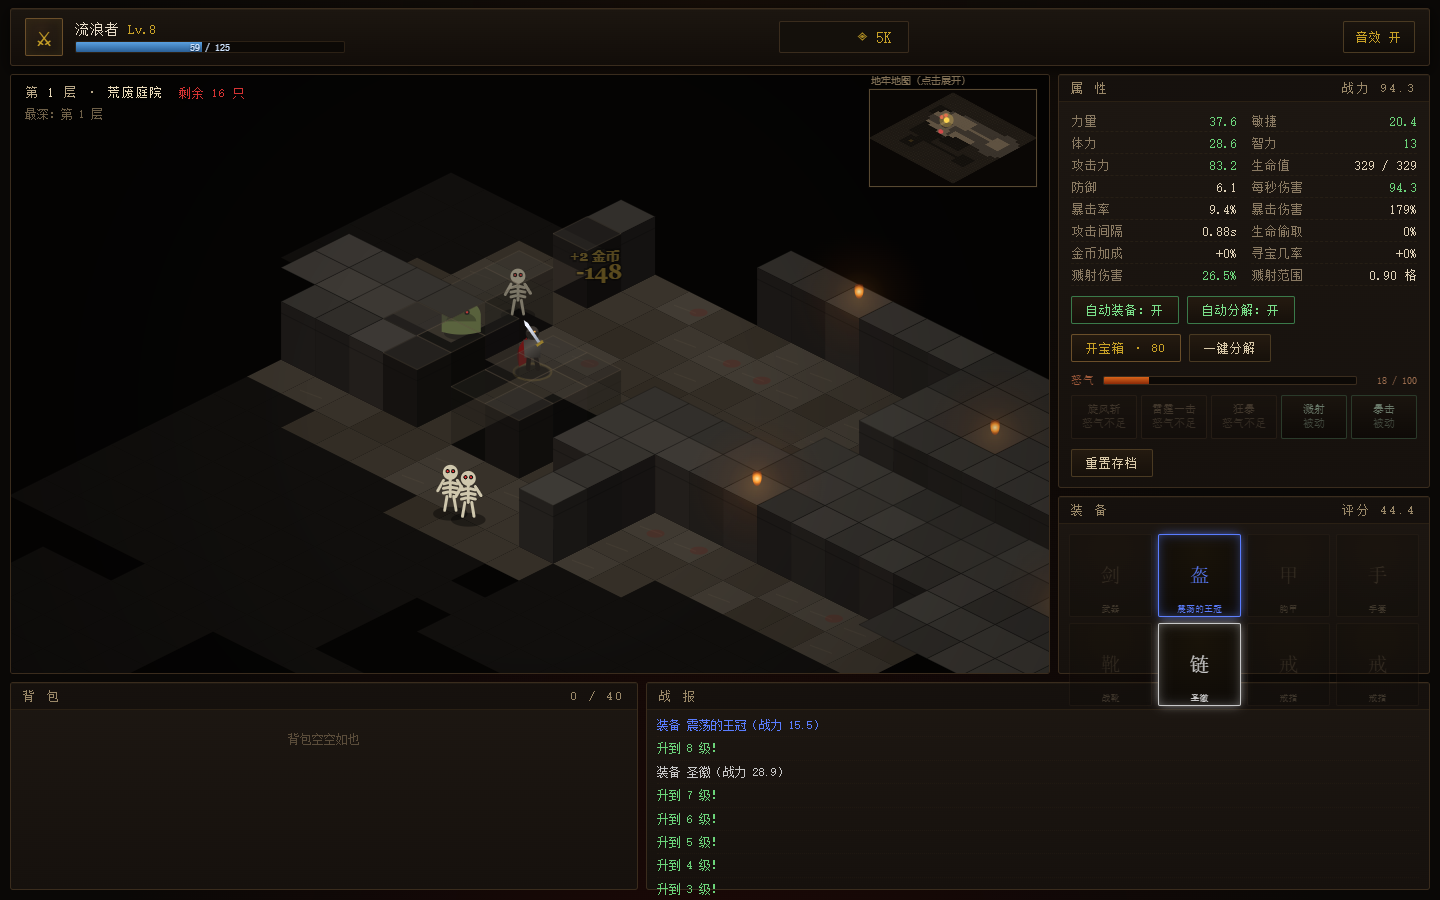
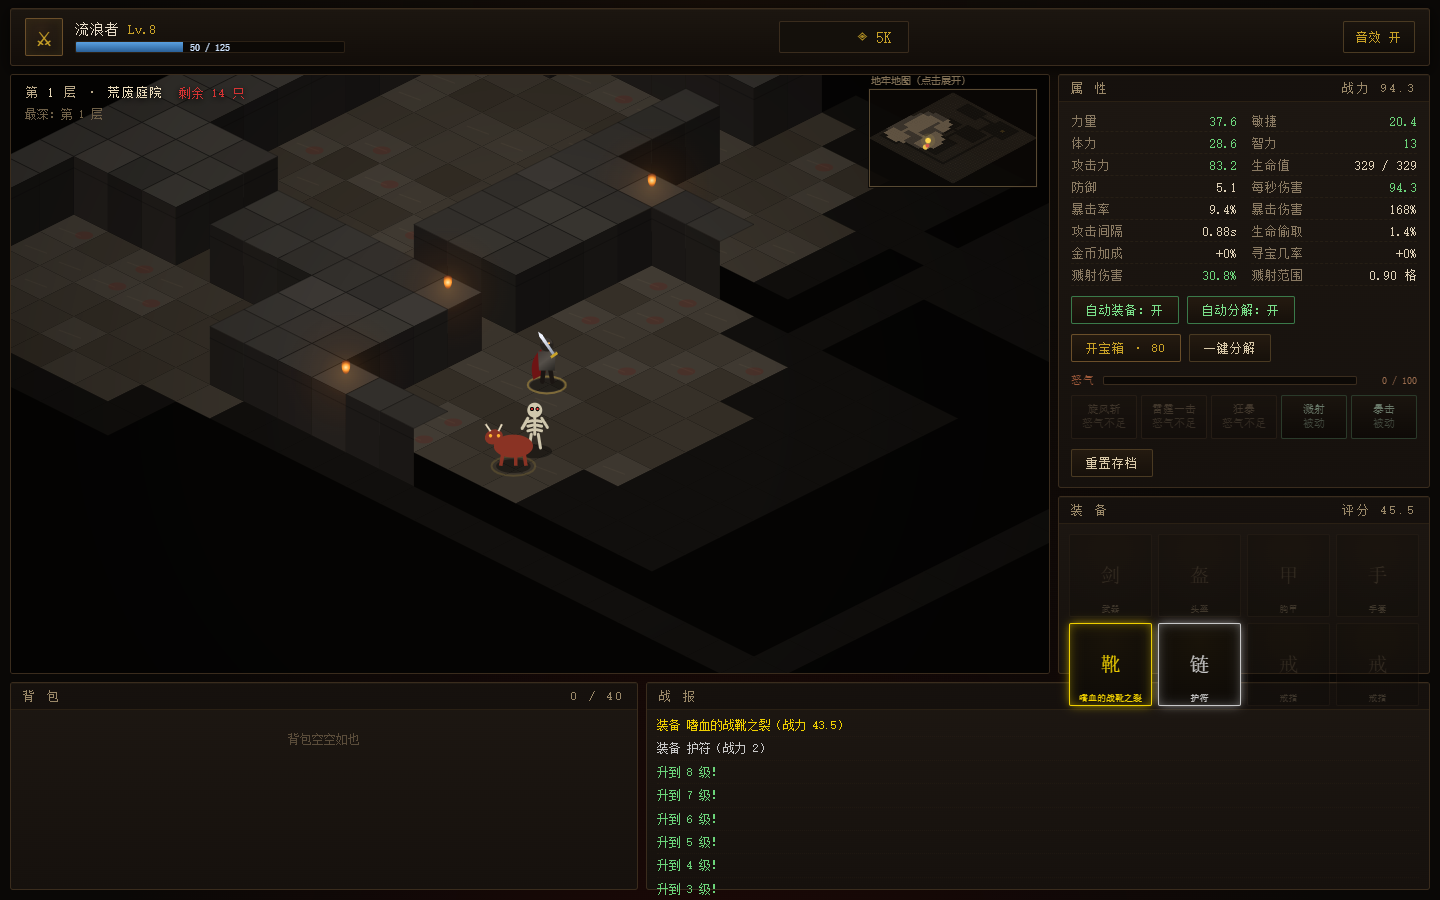
balance: 加强怪物强度
- 怪物血量基数 27.5 → 105（×3.8），成长 1.16 → 1.158
- 怪物攻击基数 1.4 → 7（×5），成长 1.132
- 1 小时模拟：6~59 次死亡（装备随机性影响大），30 分钟 1~4 次

diff --git a/js/core.js b/js/core.js
@@ -60,8 +60,8 @@
   function expToNext(level) { return Math.floor(20 * Math.pow(1.30, level - 1)); }
   function playerBaseAtk(level) { return BASE.atk + (level - 1) * 2.6; }
   function playerBaseHp(level) { return BASE.hp + (level - 1) * 20; }
-  function monsterHp(floor) { return 27.5 * Math.pow(1.16, floor - 1); }
-  function monsterAtk(floor) { return 1.4 * Math.pow(1.125, floor - 1); }
+  function monsterHp(floor) { return 105 * Math.pow(1.158, floor - 1); }
+  function monsterAtk(floor) { return 7 * Math.pow(1.132, floor - 1); }
   function monsterExp(floor) { return 9 * Math.pow(1.15, floor - 1); }
   function monsterGold(floor) { return 2.2 * Math.pow(1.14, floor - 1); }
 
